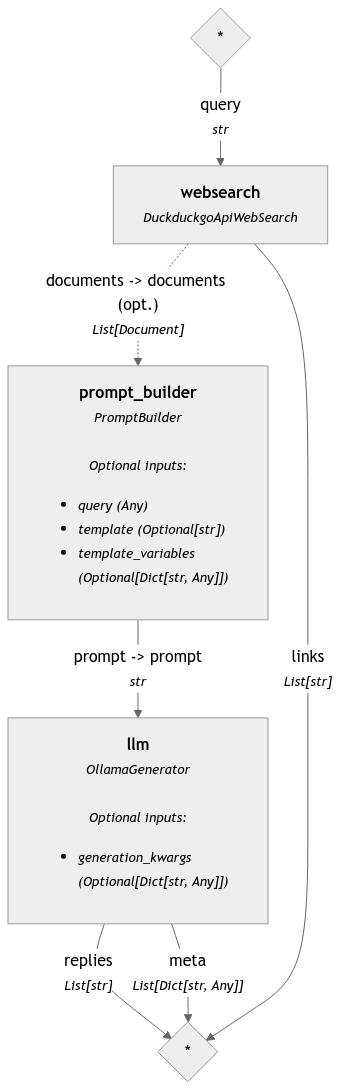
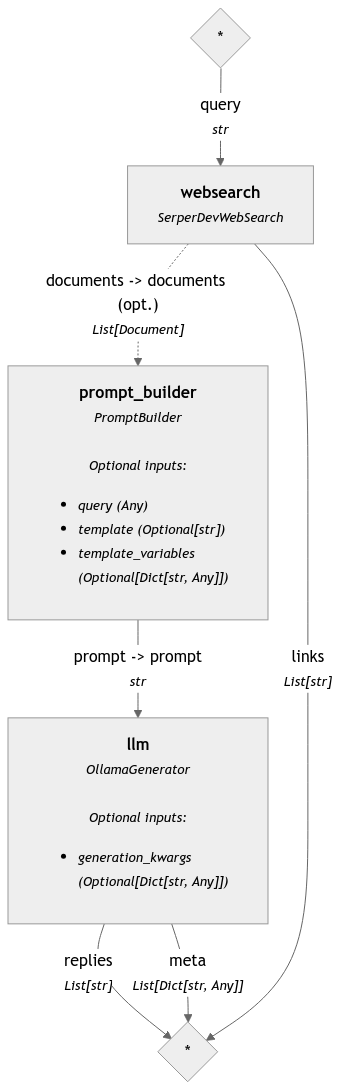
feat(validator): Add SERPERDEV_API_KEY to config and include langdetect in requirements

Changed region(s): [[0.4118, 0.1872, 0.8824, 0.2183], [0.8235, 0.811, 0.9118, 0.9046], [0.7647, 0.9046, 0.7941, 0.9358]]

diff --git a/validator/config.py b/validator/config.py
@@ -14,6 +14,8 @@ LOGGING_PATH = "logs" # the root workspace is "validator" because of the Dockerf
 os.makedirs(LOGGING_PATH, exist_ok=True)
 os.makedirs(DATA_PATH, exist_ok=True)
 
+# haystack
+SERPERDEV_API_KEY = os.getenv("SERPERDEV_API_KEY")
 # general paths
 FOS_TAXONOMY_PATH = "data/fos_taxonomy_v0.1.5.json"
 
